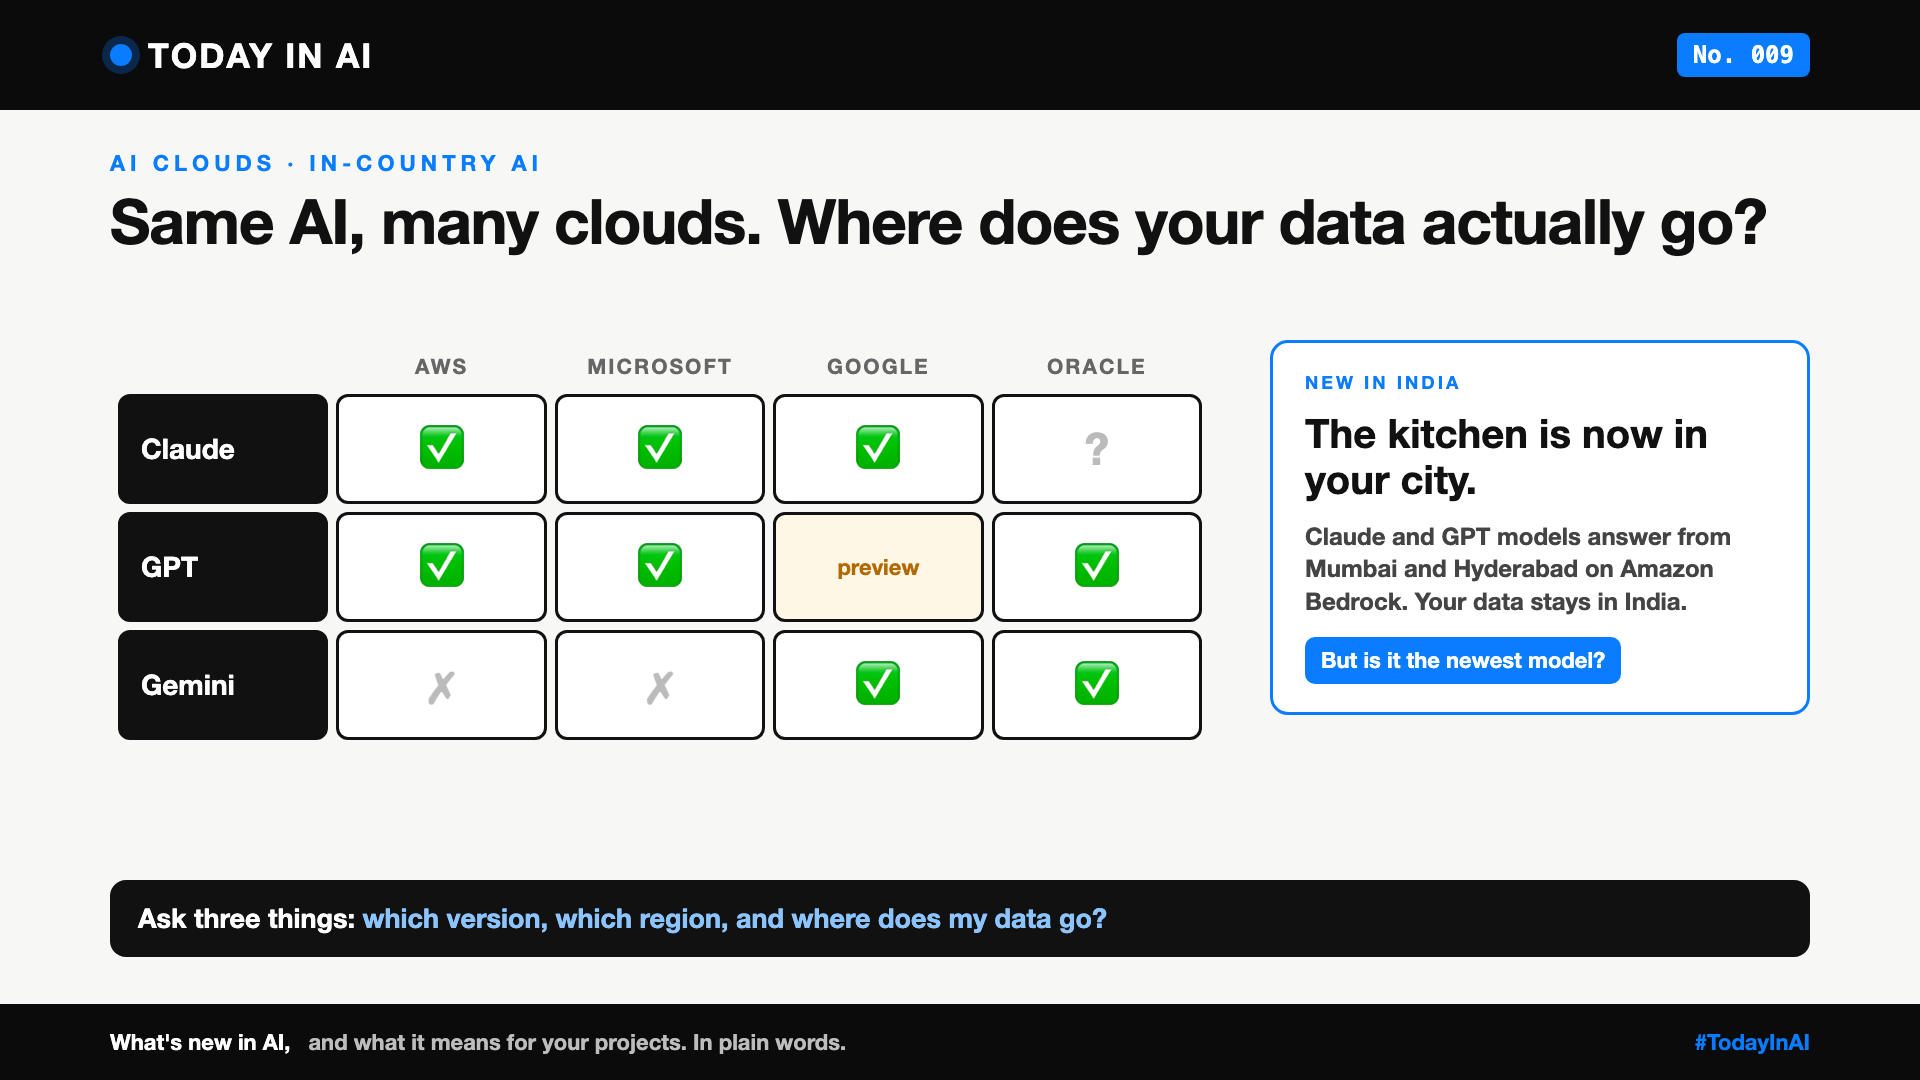
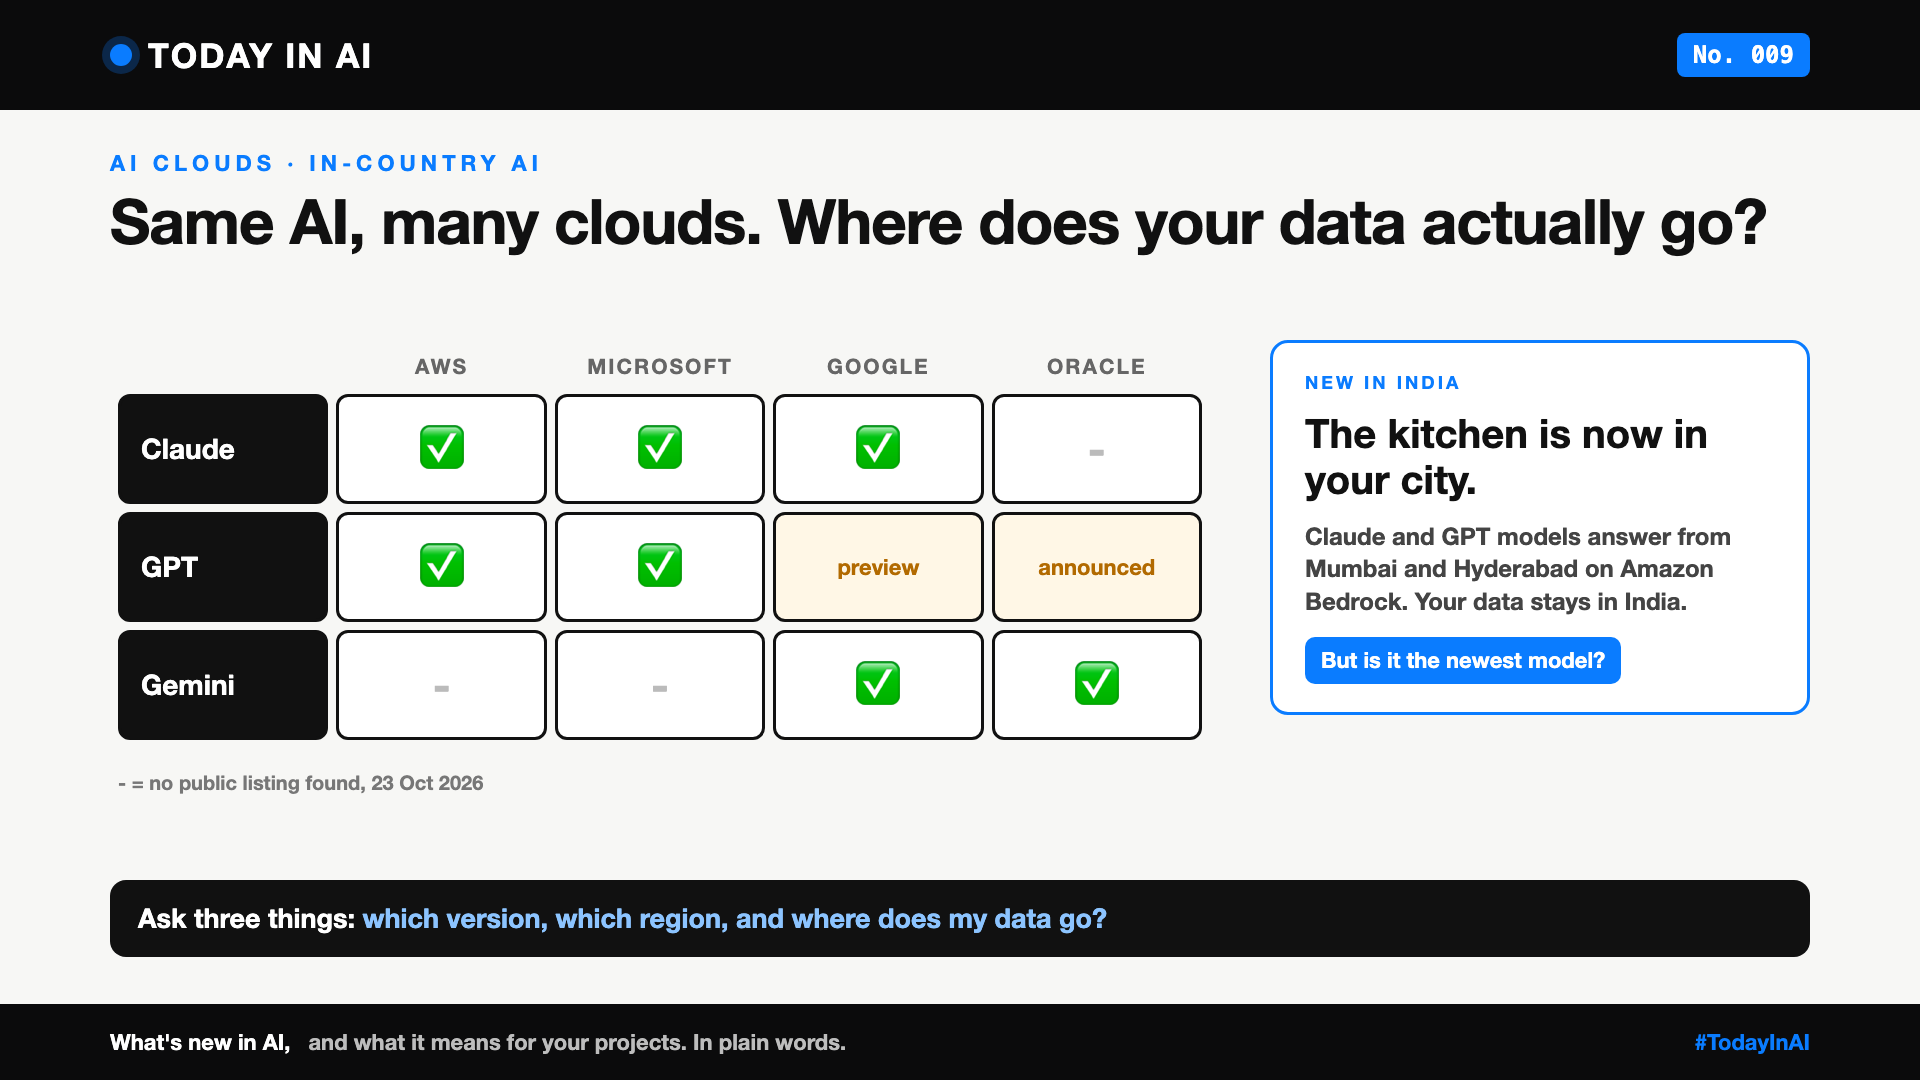
Today in AI 009: table re-verified against primary sources; unverified cells marked, Grok row removed, references corrected

Changed region(s): [[0.5, 0.4583, 0.625, 0.5806], [0.0625, 0.7028, 0.25, 0.7333], [0.5625, 0.3972, 0.5938, 0.4278]]

diff --git a/20-today-in-ai/009-same-ai-many-clouds.md b/20-today-in-ai/009-same-ai-many-clouds.md
@@ -18,12 +18,11 @@ Three moves in a few weeks:
 
 | | AWS (Bedrock) | Microsoft (Foundry) | Google Cloud (Vertex AI) | Oracle (OCI) |
 |---|---|---|---|---|
-| **Claude** (Anthropic) | ✅ In India: in-country | ✅ | ✅ | Not found |
-| **GPT** (OpenAI) | ✅ In India: in-country (Terra, Luna) | ✅ Main partner | 🟡 Private preview | ✅ US marketplace |
-| **Gemini** (Google) | ❌ | ❌ | ✅ Home | ✅ Gemini 2.5 |
-| **Grok** (xAI) | Not found | ✅ | Not found | ✅ |
+| **Claude** (Anthropic) | ✅ In India: in-country (Opus 5, Sonnet 5, Haiku 4.5) [1] | ✅ Including Opus 5.5 [4] | ✅ Including Opus 5.5 [5] | ➖ |
+| **GPT** (OpenAI) | ✅ GPT-5.6 [6]. In India: in-country (Terra, Luna) [2] | ✅ Main partner [7] | 🟡 Private preview, from 21 Oct [3] | 🟡 Announced June 2026 [8] |
+| **Gemini** (Google) | ➖ | ➖ | ✅ Home | ✅ Gemini 2.5 [9] |
 
-*From public announcements and model catalogs [1-7]. Catalogs change often, so check before you build.*
+*➖ = no public listing found when checked on 23 October 2026. Catalogs change often, so check before you build.*
 
 ## What it means
 
@@ -38,7 +37,7 @@ For years, picking an AI model also meant picking a cloud. That's ending. You ca
 
 ## The catch
 
-New dishes reach some branches later. Anthropic's newest models, Opus 5.5 and Sonnet 5.5 (September 2026), aren't on the India in-country list yet [1, 5]. On Bedrock in India, OpenAI's in-country choice is Terra and Luna, not the flagship Sol [2]. And "available on cloud X" can mean different things: on Microsoft Foundry, Claude can run on Anthropic's own infrastructure or on Azure's, with different data rules [4].
+New dishes reach some branches later. Anthropic's newest models, Opus 5.5 and Sonnet 5.5 (September 2026), aren't on the India in-country list yet, though Microsoft and Google already offer them [1, 4, 5]. On Bedrock in India, OpenAI's in-country choice is Terra and Luna, not the flagship Sol [2]. And "available on cloud X" can mean different things: on Microsoft Foundry, Claude can run on Anthropic's own infrastructure or on Azure's, with different data rules [4].
 
 So the real question isn't "is the model on my cloud?" It's "which version, in which region, with my data going where?"
 
@@ -55,15 +54,17 @@ So the real question isn't "is the model on my cloud?" It's "which version, in w
 
 ## References and credits
 
-1. Business Standard, "Anthropic brings in-country Claude inference to India via Amazon Bedrock", October 2026. [Read it](https://www.business-standard.com/technology/artificial-intelligence/anthropic-claude-india-inference-amazon-bedrock-data-residency-126100500356_1.html). Also covered by [Analytics India Magazine](https://analyticsindiamag.com/ai-news/anthropic-brings-claude-in-country-inference-to-india-through-amazon-bedrock).
-2. AWS, "Amazon Bedrock now supports OpenAI models in India", August 2026. [Read it](https://aws.amazon.com/about-aws/whats-new/2026/08/amazon-bedrock-openai-india-v1/) (primary source). And AWS, "Introducing OpenAI models on Amazon Bedrock for in-country inferencing in India". [Read it](https://aws.amazon.com/blogs/machine-learning/introducing-openai-models-on-amazon-bedrock-for-in-country-inferencing-in-india/)
-3. OpenAI, "OpenAI models are coming to Google Cloud", 21 October 2026. [Read it](https://openai.com/index/openai-models-google-cloud/) (primary source). Also covered by [CNBC](https://www.cnbc.com/2026/10/21/openai-bring-its-ai-models-to-googles-cloud-expands-beyond-microsoft.html) and [TechWire Asia](https://techwireasia.com/2026/10/openai-google-cloud-ai-models/), which also notes OpenAI's Oracle availability.
-4. Microsoft Learn, "Claude models in Microsoft Foundry". [Read it](https://learn.microsoft.com/en-us/azure/foundry/foundry-models/concepts/claude-models) (primary source). And Anthropic, "Claude in Microsoft Foundry is now generally available", June 2026. [Read it](https://claude.com/blog/claude-in-microsoft-foundry)
-5. Anthropic, "Claude on Google Cloud", Claude Platform docs. [Read it](https://platform.claude.com/docs/en/build-with-claude/claude-on-vertex-ai) (primary source)
-6. AWS, "OpenAI GPT-5.6 Sol, Terra, and Luna now generally available on Amazon Bedrock", July 2026. [Read it](https://aws.amazon.com/about-aws/whats-new/2026/07/openai-gpt-sol-terra/) (primary source)
-7. Oracle, "What's New in Oracle AI? October 2026 Edition". [Read it](https://blogs.oracle.com/ai-and-datascience/whats-new-in-oracle-ai-october-2026). And Microsoft, Foundry model catalog. [Read it](https://ai.azure.com/catalog/models)
+1. Analytics India Magazine, "Anthropic Brings Claude In-Country Inference to India Through Amazon Bedrock", 5 October 2026. [Read it](https://analyticsindiamag.com/ai-news/anthropic-brings-claude-in-country-inference-to-india-through-amazon-bedrock). Also covered by [Business Standard](https://www.business-standard.com/technology/artificial-intelligence/anthropic-claude-india-inference-amazon-bedrock-data-residency-126100500356_1.html).
+2. AWS, "Amazon Bedrock now supports OpenAI models in India", 18 August 2026. [Read it](https://aws.amazon.com/about-aws/whats-new/2026/08/amazon-bedrock-openai-india-v1/) (primary source)
+3. OpenAI, "OpenAI models are coming to Google Cloud", 21 October 2026. [Read it](https://openai.com/index/openai-models-google-cloud/) (primary source). Also covered by [CNBC](https://www.cnbc.com/2026/10/21/openai-bring-its-ai-models-to-googles-cloud-expands-beyond-microsoft.html) and [TechWire Asia](https://techwireasia.com/2026/10/openai-google-cloud-ai-models/).
+4. Microsoft Learn, "Claude models in Microsoft Foundry", updated 22 September 2026. [Read it](https://learn.microsoft.com/en-us/azure/foundry/foundry-models/concepts/claude-models) (primary source). And Anthropic, "Claude in Microsoft Foundry is now generally available", 29 June 2026. [Read it](https://claude.com/blog/claude-in-microsoft-foundry)
+5. Anthropic, "Claude Models on Google Cloud", Claude Platform docs (model ID table). [Read it](https://platform.claude.com/docs/en/build-with-claude/claude-on-vertex-ai) (primary source)
+6. AWS, "OpenAI GPT-5.6 Sol, Terra, and Luna now generally available on Amazon Bedrock", 13 July 2026. [Read it](https://aws.amazon.com/about-aws/whats-new/2026/07/openai-gpt-sol-terra/) (primary source)
+7. Microsoft, "GPT-5.6 now available in Microsoft Foundry", 9 July 2026. [Read it](https://azure.microsoft.com/en-us/blog/gpt-5-6-now-available-in-microsoft-foundry/) (primary source)
+8. IT Brief, "OpenAI and Oracle to offer models on OCI Marketplace", June 2026. [Read it](https://itbrief.news/story/openai-oracle-to-offer-models-on-oci-marketplace)
+9. Oracle, "Use Google Gemini 2.5 in OCI Generative AI", release note, 1 October 2025. [Read it](https://docs.oracle.com/iaas/releasenotes/generative-ai/gemini-2-5-GA.htm) (primary source)
 
-Credit to Anthropic, OpenAI, AWS, Microsoft, Google Cloud and Oracle for their public announcements and documentation, and to the reporters at Business Standard, Analytics India Magazine, CNBC and TechWire Asia. Facts come from these sources, checked on 23 October 2026; the table is my summary of them, and the opinions are mine. Cover: original illustration, no third-party logos or images.
+Credit to Anthropic, OpenAI, AWS, Microsoft, Google Cloud and Oracle for their public announcements and documentation, and to the reporters at Analytics India Magazine, Business Standard, CNBC, TechWire Asia and IT Brief. Facts come from these sources, checked on 23 October 2026; the table is my summary of them, and the opinions are mine. Cover: original illustration, no third-party logos or images.
 
 **Not sponsored.** This write-up is not sponsored by anyone. Nobody paid for it or reviewed it before publishing.
 
